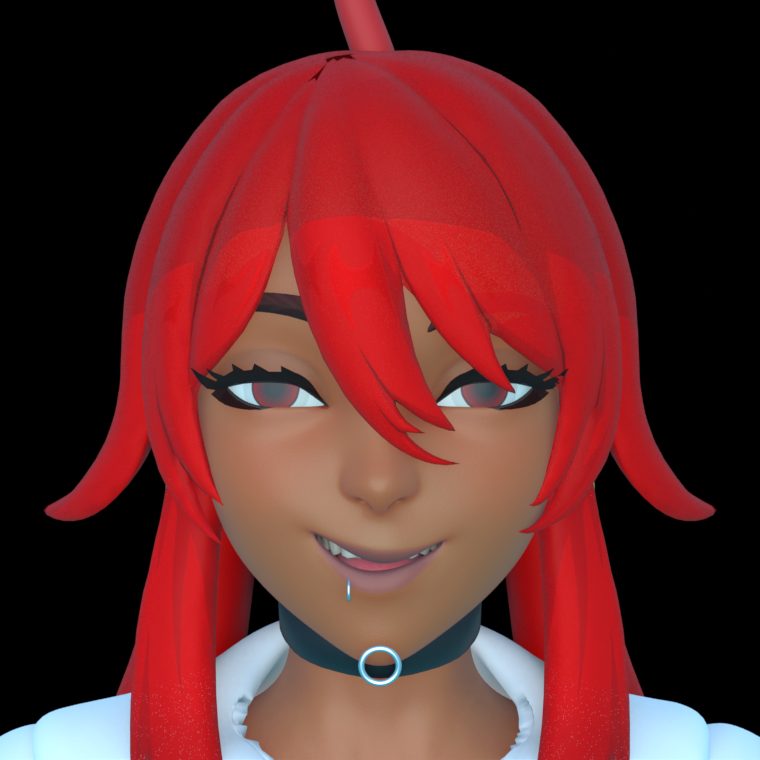
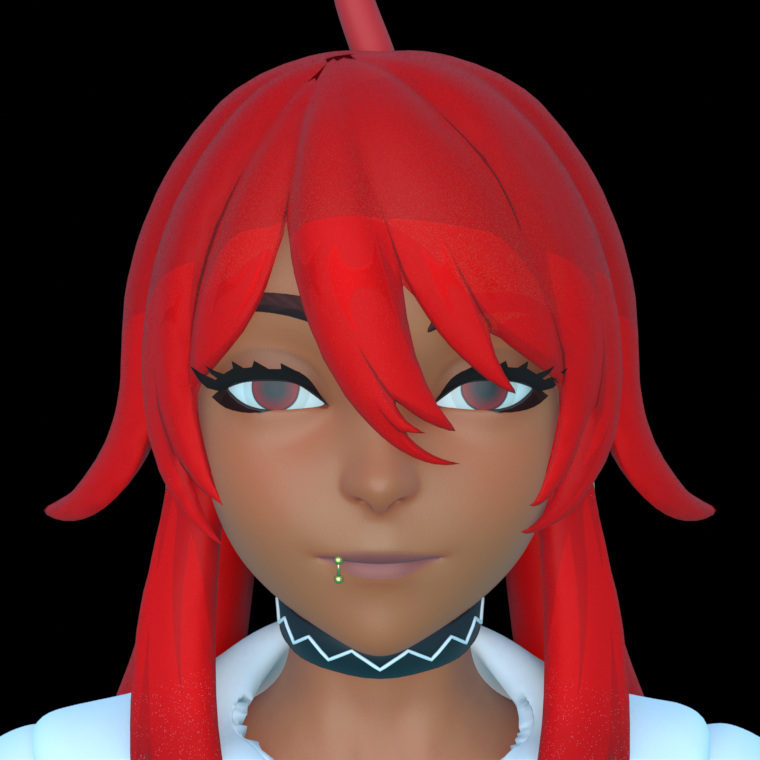
Restyle: neutral expression and corrected piercings
Drop the smirk for a neutral closed mouth, replace the choker pendant
with a printed wavy line, swap the lip ring for a gold barbell, add a
matching tongue barbell and enlarge the navel ring.

Claude-Session: https://claude.ai/code/session_01YBmGHDL1HPYT4vQtLqAYCC

diff --git a/character_restyle/restyle.py b/character_restyle/restyle.py
@@ -7,15 +7,17 @@ Run with Blender 4.1 / 4.2 (or the matching `bpy` module):
 What it changes (everything stays rigged; new props are bone-parented):
   * skin      -> warm tan (tint node inside the shared "Skin Shader" group)
   * eyes      -> smaller dark-red irises painted into the head texture; eye
-                 corners, lids and lips re-posed for a sharp-eyed smirk
+                 corners, lids and lips re-posed (sharper eyes, thinner lips,
+                 neutral expression)
   * make-up   -> blush toned down, deeper lipstick, long red nails (rig props)
   * hair      -> adds the antenna strand ("ahoge") on the crown
   * outfit    -> sailor top turned into an open, long-sleeved white shirt knotted
                  under the bust over a black lettered bandeau; skirt recoloured
                  navy with a white hem stripe, white belt and gold heart buckle
                  and dropped to the hips; navy thigh-highs with a white band
-  * jewellery -> black choker + ring, gold hoop earrings, navel ring,
-                 lip ring, black leather cuff on the left wrist
+  * jewellery -> black choker with a printed wavy line, gold hoop earrings,
+                 gold navel ring, gold lip and tongue barbells, black leather
+                 cuff on the left wrist
 """
 import math
 import os
@@ -117,6 +119,21 @@ def band(name, rings, coll, mat, thickness):
     s.thickness = thickness
     s.offset = 1.0
     return o
+
+
+def barbell(name, p0, p1, ball, bar, coll, mat):
+    """Straight bar from p0 to p1 with a ball on each end."""
+    p0, p1 = Vector(p0), Vector(p1)
+    bm = bmesh.new()
+    for p in (p0, p1):
+        bmesh.ops.create_uvsphere(bm, u_segments=16, v_segments=10, radius=ball, matrix=Matrix.Translation(p))
+    rot = Vector((0, 0, 1)).rotation_difference((p1 - p0).normalized()).to_matrix().to_4x4()
+    bmesh.ops.create_cone(bm, cap_ends=True, segments=10, radius1=bar, radius2=bar, depth=(p1 - p0).length,
+                          matrix=Matrix.Translation((p0 + p1) / 2) @ rot)
+    me = bpy.data.meshes.new(name)
+    bm.to_mesh(me)
+    bm.free()
+    return new_obj(name, me, coll, mat)
 
 
 def bone_pt(name, tail=False):
@@ -228,19 +245,19 @@ hnt.links.new(src, hsv.inputs["Color"])
 hnt.links.new(hsv.outputs["Color"], hfx.inputs["Diffuse"])
 
 # half-lidded stare (rig control: 0 = open, -0.015 = closed); reset it to 0 to undo
-arm.pose.bones["Blink Eyes"].location.y = -0.0062
+arm.pose.bones["Blink Eyes"].location.y = -0.0055
 
 # face shape, set as pose offsets on the facial bones (world-space metres; "her" left/right).
 # Clear the pose on these bones to get the original face back.
 FACE = {
     # sharper, upturned eyes
-    "L_EyeCornerOuter": (0.003, 0, 0.011), "R_EyeCornerOuter": (-0.003, 0, 0.011),
-    "L_EyeCornerInner": (0, 0, -0.006), "R_EyeCornerInner": (0, 0, -0.006),
-    "L_EyelidLowerA": (0, 0, 0.003), "R_EyelidLowerA": (0, 0, 0.003),
-    # thinner lips, wider mouth, right corner pulled up into a smirk
-    "C_LipUpper": (0, 0.004, -0.002), "L_LipUpper": (0, 0.004, -0.002), "R_LipUpper": (0, 0.004, 0.001),
-    "C_LipLower": (0, 0.004, 0.002), "L_LipLower": (0, 0.004, 0.003), "R_LipLower": (0, 0.004, -0.001),
-    "L_LipsCorner": (0.007, 0, 0), "R_LipsCorner": (-0.010, 0, 0.007),
+    "L_EyeCornerOuter": (0.002, 0, 0.008), "R_EyeCornerOuter": (-0.002, 0, 0.008),
+    "L_EyeCornerInner": (0, 0, -0.004), "R_EyeCornerInner": (0, 0, -0.004),
+    "L_EyelidLowerA": (0, 0, 0.002), "R_EyelidLowerA": (0, 0, 0.002),
+    # thinner lips, slightly wider mouth; expression stays neutral and closed
+    "C_LipUpper": (0, 0.003, -0.002), "L_LipUpper": (0, 0.003, -0.002), "R_LipUpper": (0, 0.003, -0.002),
+    "C_LipLower": (0, 0.003, 0.002), "L_LipLower": (0, 0.003, 0.002), "R_LipLower": (0, 0.003, 0.002),
+    "L_LipsCorner": (0.004, 0, 0.0005), "R_LipsCorner": (-0.004, 0, 0.0005),
 }
 for bone, off in FACE.items():
     pb = arm.pose.bones[bone]
@@ -248,10 +265,6 @@ for bone, off in FACE.items():
     m = pb.matrix.copy()
     m.translation = m.translation + Vector(off)
     pb.matrix = m
-mouth = arm.pose.bones["Mouth Control"]
-mouth.rotation_mode = "XYZ"
-mouth.rotation_euler = (0, 0, math.radians(-8))    # slight grin
-mouth.location.y -= 0.004                          # jaw open just enough to show teeth and tongue
 bpy.context.view_layer.update()
 
 # ---------------------------------------------------------------- body surface lookup
@@ -409,9 +422,24 @@ for k in (-0.009, 0.0, 0.009):
     rings.append(offset_loop(wrap(c, ax, 0.2), c, ax, 0.0025))
 choker = band("Choker", rings, acc, leather, 0.0025)
 bone_parent(choker, "neck_01")
-front, _ = hit(c_mid + Vector((0, -0.3, 0)), (0, 1, 0))
-ring = torus("Choker Ring", front + Vector((0, -0.006, -0.010)), 0.0075, 0.0013, (0, 1, 0.25), acc, steel)
-bone_parent(ring, "neck_01")
+# printed design: a white wavy line running round the band (no pendant)
+print_mat = make_mat("Rebel Choker Print", (0.85, 0.85, 0.85, 1), rough=0.6)
+WN, WAVES = 168, 14
+line = offset_loop(wrap(c_mid, ax, 0.2, n=WN), c_mid, ax, 0.0056)
+pc = bpy.data.curves.new("Choker Print", "CURVE")
+pc.dimensions = "3D"
+pc.bevel_depth = 0.0008
+pc.bevel_resolution = 1
+ps = pc.splines.new("POLY")
+ps.points.add(WN - 1)
+for i, pnt in enumerate(line):
+    tri = abs((i * WAVES / WN) % 1.0 - 0.5) * 4 - 1          # zig-zag between -1 and 1
+    ps.points[i].co = (*(pnt + ax * 0.0038 * tri), 1)
+ps.use_cyclic_u = True
+cprint = bpy.data.objects.new("Choker Print", pc)
+acc.objects.link(cprint)
+pc.materials.append(print_mat)
+bone_parent(cprint, "neck_01")
 
 # ---------------------------------------------------------------- wrist cuff (her left)
 a, b = bone_pt("L_ForearmTwist"), bone_pt("L_ForearmTwist", True)
@@ -445,12 +473,12 @@ for i in range(12, len(prof) - 12):
         best = (depth, prof[i][0], prof[i][1], around)
 _, nz, ny, skin_y = best
 print("navel at z=%.3f depth=%.4f" % (nz, best[0]))
-navel = torus("Navel Ring", (0, skin_y - 0.0035, nz - 0.010), 0.0085, 0.0013, (0, 1, 0), acc, gold)
+navel = torus("Navel Ring", (0, skin_y - 0.0045, nz - 0.0125), 0.0105, 0.0021, (0, 1, 0), acc, gold)
 bone_parent(navel, "abdomenLower")
 bead_me = bpy.data.meshes.new("Navel Bead")
 bm = bmesh.new()
-bmesh.ops.create_uvsphere(bm, u_segments=16, v_segments=10, radius=0.0028)
-bmesh.ops.translate(bm, verts=bm.verts, vec=(0, skin_y - 0.002, nz - 0.0005))
+bmesh.ops.create_uvsphere(bm, u_segments=16, v_segments=10, radius=0.0042)
+bmesh.ops.translate(bm, verts=bm.verts, vec=(0, skin_y - 0.003, nz - 0.0005))
 bm.to_mesh(bead_me)
 bm.free()
 bead = new_obj("Navel Bead", bead_me, acc, gold)
@@ -476,12 +504,25 @@ for side, sx in (("L", 1), ("R", -1)):
         e = torus("Earring %s %d" % (side, i + 1), c, r, 0.0012, (1, 0.25 * sx, 0), acc, gold)
         bone_parent(e, "head")
 
-# ---------------------------------------------------------------- lip ring (her right)
+# ---------------------------------------------------------------- lip barbell (her right) + tongue barbell
 lp = bone_pt("R_LipLower")
-loc, _ = hit((lp.x, -0.5, lp.z - 0.002), (0, 1, 0))
-if loc:
-    lipring = torus("Lip Ring", loc + Vector((0, 0.001, -0.001)), 0.0042, 0.0007, (1, 0, 0), acc, steel, seg=28, ring=8)
-    bone_parent(lipring, "R_LipLower")
+top, _ = hit((lp.x - 0.004, -0.5, lp.z + 0.0005), (0, 1, 0))
+low, _ = hit((lp.x - 0.004, -0.5, lp.z - 0.0075), (0, 1, 0))
+if top and low:
+    lipbar = barbell("Lip Barbell", top + Vector((0, -0.0012, 0)), low + Vector((0, -0.0012, 0)),
+                     0.0019, 0.0007, acc, gold)
+    bone_parent(lipbar, "R_LipLower")
+
+tongue = bpy.data.objects["Tongue"]
+tbvh = BVHTree.FromObject(tongue, deps)
+tw = [tongue.matrix_world @ Vector(c) for c in tongue.bound_box]
+tip_y = min(p.y for p in tw)
+t_top, _n, _i, _d = tbvh.ray_cast(Vector((0, tip_y + 0.016, 2.0)), Vector((0, 0, -1)), 1.0)
+if t_top:
+    stud = barbell("Tongue Barbell", t_top + Vector((0, 0, 0.0012)), t_top + Vector((0, 0, -0.0085)),
+                   0.0024, 0.0008, acc, gold)
+    tbone = next(b for b in ("Tongue_Front", "Tongue_Master", "C_Jaw") if b in arm.pose.bones)
+    bone_parent(stud, tbone)
 
 # ---------------------------------------------------------------- ahoge
 hair = bpy.data.objects["Hair.001"]

diff --git a/character_restyle/README.md b/character_restyle/README.md
@@ -14,9 +14,9 @@ reference look. The `.blend` itself is ~100 MB and is not stored in the repo.
 | ![before](previews/before.png) | ![after](previews/full.png) |
 
 What changes: warm tan skin, small dark-red irises, upturned half-lidded eyes,
-thinner lips posed in a smirk, vivid red hair, toned-down blush,
+thinner lips with a neutral expression, vivid red hair, toned-down blush,
 long red nails, ahoge strand, open long-sleeved white shirt knotted over a
 black lettered bandeau, navy pleated skirt with white hem stripe, white belt
 and gold heart buckle, navy thigh-highs with a white band, choker, gold hoop
-earrings, navel ring, lip ring and a black leather cuff on the left wrist.
+earrings, navel ring, gold lip and tongue barbells and a black leather cuff on the left wrist.
 All new pieces are skinned or bone-parented to the existing rig.
